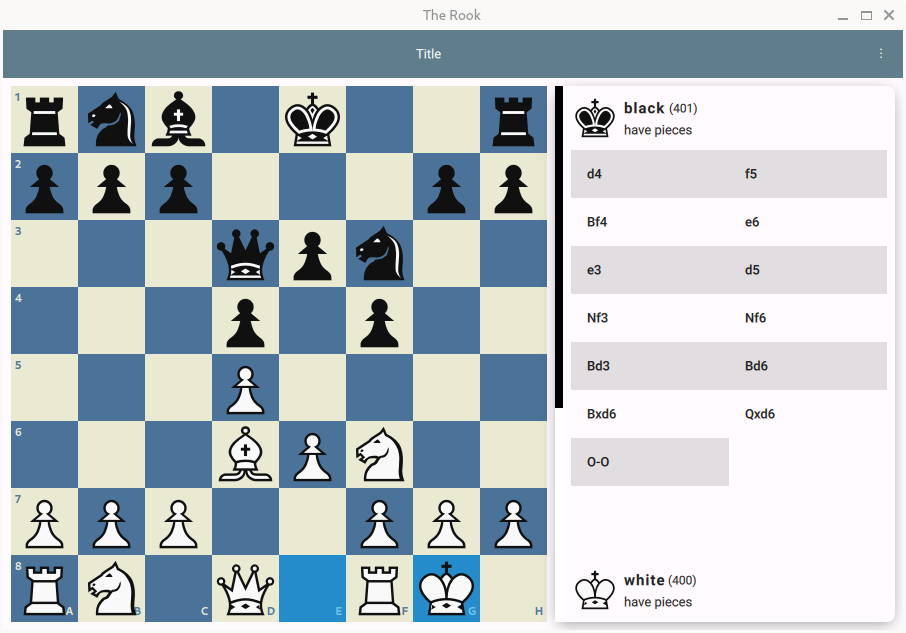
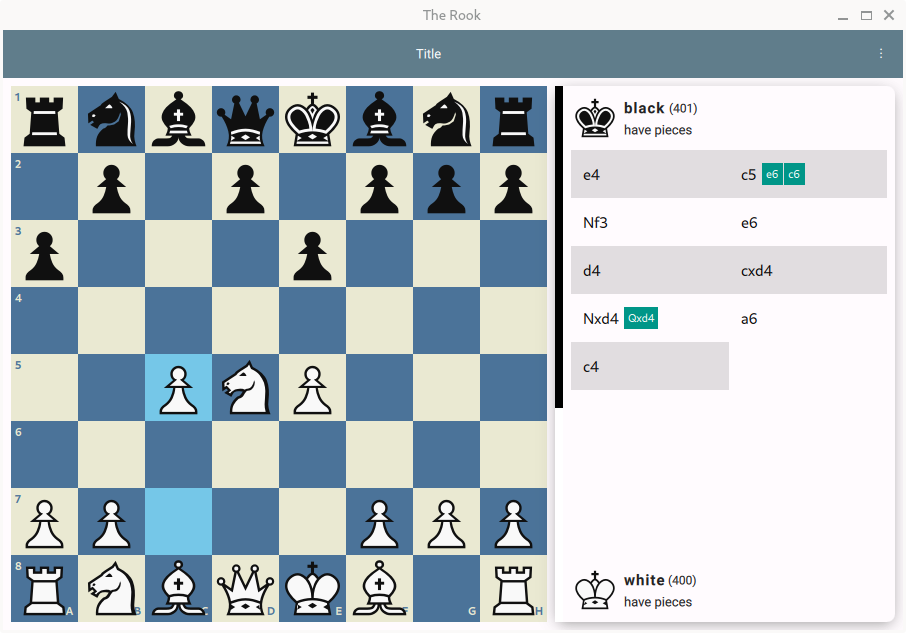
minor bug fixes.

diff --git a/ui/SidePanel.qml b/ui/SidePanel.qml
@@ -74,6 +74,8 @@ RoundPane {
                 ScrollBar.vertical: ScrollBar {}
 
                 delegate: ItemDelegate {
+                    property var model2: model
+
                     required property bool selected
                     required property bool current
 
@@ -86,16 +88,37 @@ RoundPane {
 
                     contentItem: RowLayout {
                         Text {
-                            Layout.fillWidth: true
+                            Layout.alignment: Qt.AlignVCenter
 
                             text: model.node != null ? model.display : ""
-                            font: delegate.font
                         }
 
-                        Text {
-                            visible: model.variations != null
-                            text: "..."
-                            font: delegate.font
+                        ListView {
+                            Layout.fillWidth: true
+                            Layout.fillHeight: true
+
+                            visible: model2.variations != null
+                            orientation: ListView.Horizontal
+                            spacing: 1
+                            clip: true
+
+                            model: model2.variations
+
+                            delegate: Control {
+                                anchors.verticalCenter: parent.verticalCenter
+
+                                padding: 4
+
+                                contentItem: Text {
+                                    text: modelData.display
+                                    color: "#FFFFFF"
+                                    font.pointSize: 8
+                                }
+
+                                background: Rectangle {
+                                    color: Material.accent
+                                }
+                            }
                         }
                     }
 

diff --git a/README.md b/README.md
@@ -8,13 +8,13 @@ A somewhat familiar chess app.
 
 ## What's Implemented?
 
-Most progress is being made in the library
+Most progress is being made in the chess library
 [
 ![crates.io/sacrifice](
 https://img.shields.io/crates/v/sacrifice?color=red&logo=rust&label=crates.io%2Fsacrifice&style=flat-square
 )
 ](https://crates.io/crates/sacrifice),
-as Rust currently lacks good chess libraries.
+as Rust currently lacks good chess libraries with game tree support.
 
 Features already implemented:
 - [x] Node tree traversal
